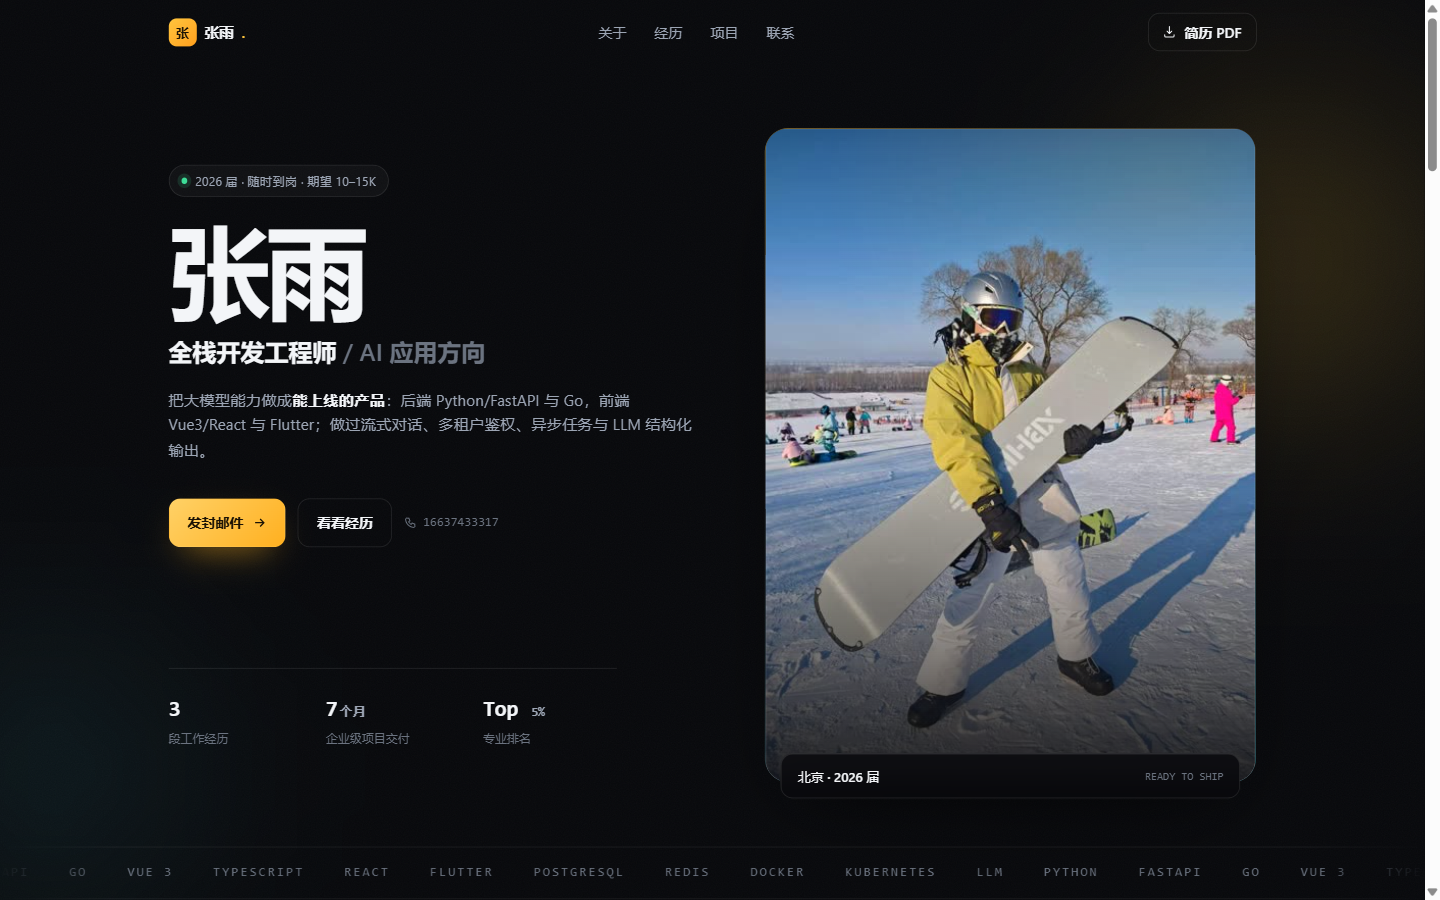
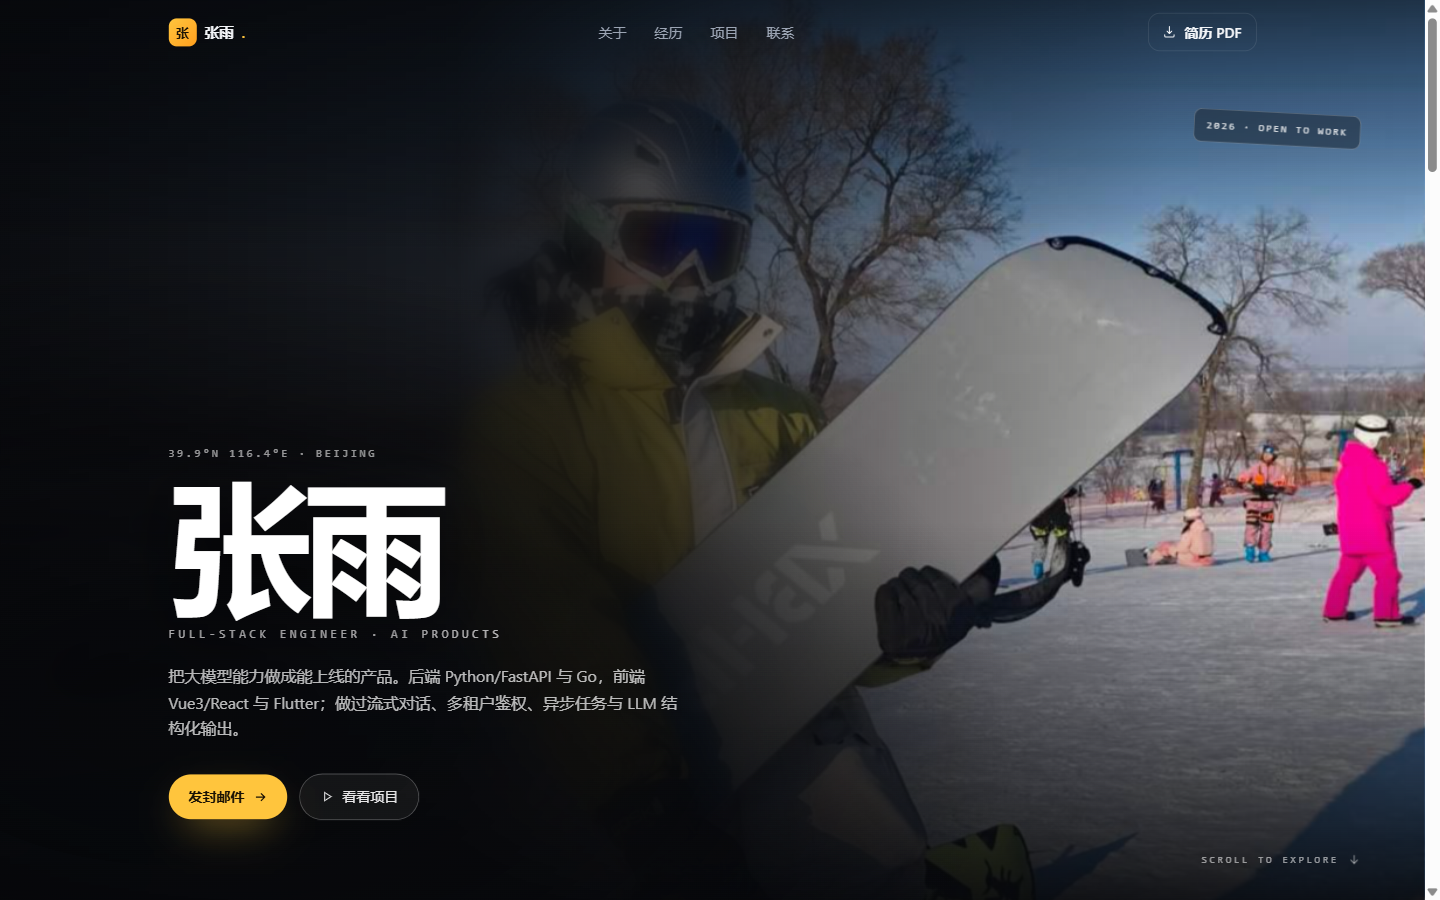
feat: 全屏照片首屏（参考抖音爆款结构：铺满+压字+滚动引导）

diff --git a/src/styles/global.css b/src/styles/global.css
@@ -264,6 +264,67 @@
   opacity: 1;
 }
 
+/* ---------- 首屏 ---------- */
+.hero-blur {
+  -webkit-backdrop-filter: blur(14px) saturate(0.9);
+  backdrop-filter: blur(14px) saturate(0.9);
+  -webkit-mask-image: linear-gradient(
+    90deg,
+    #000 0%,
+    #000 30%,
+    rgba(0, 0, 0, 0.6) 48%,
+    transparent 66%
+  );
+  mask-image: linear-gradient(
+    90deg,
+    #000 0%,
+    #000 30%,
+    rgba(0, 0, 0, 0.6) 48%,
+    transparent 66%
+  );
+}
+
+.hero-media img {
+  transform: translate3d(0, 0, 0) scale(1.05);
+  will-change: transform;
+}
+
+.hero-fade {
+  animation: heroIn 1s cubic-bezier(0.2, 0.7, 0.2, 1) both;
+}
+
+@keyframes heroIn {
+  from {
+    opacity: 0;
+    transform: translateY(26px);
+  }
+  to {
+    opacity: 1;
+    transform: none;
+  }
+}
+
+.scroll-hint svg {
+  animation: nudge 1.9s ease-in-out infinite;
+}
+
+@keyframes nudge {
+  0%,
+  100% {
+    transform: translateY(-2px);
+  }
+  50% {
+    transform: translateY(3px);
+  }
+}
+
+@media (prefers-reduced-motion: reduce) {
+  .hero-fade,
+  .scroll-hint svg {
+    animation: none;
+  }
+}
+
 /* ---------- 顶栏 ---------- */
 header.is-solid {
   background: rgba(7, 8, 11, 0.72);

diff --git a/README.md b/README.md
@@ -9,11 +9,12 @@
 
 ## 设计
 
-- 首屏：左侧姓名/职位/联系方式，右侧 3:4 竖版照片（雪场单板），底部技术栈跑马灯
+- 首屏：**全屏照片铺满 100svh**，左侧渐变压暗 + 局部柔焦保证文字可读；超大姓名压字、坐标标签、贴纸式「2026 · OPEN TO WORK」、右下「SCROLL TO EXPLORE」引导
+- 滚动：照片视差放大并淡出，内容区接在后面
 - 主色：取自照片里的雪服黄 `#FFC53D`，辅色天空青 `#4FD1E0`
 - 版式：深色底 + 1px 描边卡片 + 细分隔线，中文用系统黑体、数字和标签用等宽字体
-- 动效：区块滚动淡入、顶栏滚动变实、导航高亮、项目卡光标跟随的光斑、跑马灯悬停暂停
-- 响应式：桌面双栏、移动端单列（照片在按钮之后，保证首屏先看到人和技能）
+- 动效：首屏文字淡入、区块滚动淡入、顶栏滚动变实、导航高亮、项目卡光标跟随光斑、技术栈跑马灯
+- 响应式：手机端照片重新定位（把人和雪板放进画面），文字压在下方，按钮胶囊化
 
 ## 页面
 
